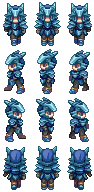
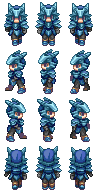
keep image ratio for mapObjects. Animate movement for characters. Order MapObject displays.

diff --git a/Assets/Scripts/Map/MapObject.cs b/Assets/Scripts/Map/MapObject.cs
@@ -10,21 +10,26 @@ public class MapObject : MonoBehaviour {
     public enum Orientation { Down, Left, Right, Up };
     public Orientation orientation = Orientation.Down;
 
-    public const int CHAR_RESOLUTION_X = 32;
-    public const int CHAR_RESOLUTION_Y = 48;
+    public int CHAR_RESOLUTION_X = 32;
+    public int CHAR_RESOLUTION_Y = 48;
 
     public Texture2D sprite;
     public Texture2D Sprite { 
         get {
+            int step = 1;
+            if (lerp > 0.2f && lerp < 0.8f)
+                step = ((orientation == Orientation.Left || orientation == Orientation.Right ? mapCoords.x : mapCoords.y) % 2 == 0) ? 0 : 2;
+            
+
             switch (orientation) {
                 case Orientation.Left:
-                    return InterfaceUtility.SeparateTexture(sprite, 1, 1, CHAR_RESOLUTION_X, CHAR_RESOLUTION_Y);
+                    return InterfaceUtility.SeparateTexture(sprite, step, 1, CHAR_RESOLUTION_X, CHAR_RESOLUTION_Y);
                 case Orientation.Right:
-                    return InterfaceUtility.SeparateTexture(sprite, 1, 2, CHAR_RESOLUTION_X, CHAR_RESOLUTION_Y);
+                    return InterfaceUtility.SeparateTexture(sprite, step, 2, CHAR_RESOLUTION_X, CHAR_RESOLUTION_Y);
                 case Orientation.Up:
-                    return InterfaceUtility.SeparateTexture(sprite, 1, 3, CHAR_RESOLUTION_X, CHAR_RESOLUTION_Y);
+                    return InterfaceUtility.SeparateTexture(sprite, step, 3, CHAR_RESOLUTION_X, CHAR_RESOLUTION_Y);
                 default:
-                    return InterfaceUtility.SeparateTexture(sprite, 1, 0, CHAR_RESOLUTION_X, CHAR_RESOLUTION_Y);
+                    return InterfaceUtility.SeparateTexture(sprite, step, 0, CHAR_RESOLUTION_X, CHAR_RESOLUTION_Y);
             }
         }
     }
@@ -44,7 +49,7 @@ public class MapObject : MonoBehaviour {
                 case MovementSpeed.None: break;
                 case MovementSpeed.Slow: lerp += Time.deltaTime * 2f; break;
                 case MovementSpeed.Normal: lerp += Time.deltaTime * 4f; break;
-                case MovementSpeed.Fast: lerp += Time.deltaTime * 8f; break;
+                case MovementSpeed.Fast: lerp += Time.deltaTime * 6f; break;
                 case MovementSpeed.Instant: lerp = 1f; break;
             }
             
@@ -64,7 +69,7 @@ public class MapObject : MonoBehaviour {
 
     public void DisplayOnMap() {
         if (sprite != null)
-            GUI.DrawTexture(new Rect(Map.Resolution.x * (mapCoords.x + currentMovement.x * lerp), Map.Resolution.y * (mapCoords.y + currentMovement.y * lerp), Map.Resolution.x, Map.Resolution.y), Sprite);
+            GUI.DrawTexture(new Rect(Map.Resolution.x * (mapCoords.x + currentMovement.x * lerp), Map.Resolution.y * (mapCoords.y + currentMovement.y * lerp), Map.Resolution.x, Sprite.height * (Map.Resolution.x / Sprite.width)), Sprite);
     }
 
     public void Move(Orientation _o) {

diff --git a/Assets/Scripts/Map/World.cs b/Assets/Scripts/Map/World.cs
@@ -34,6 +34,8 @@ public class World : MonoBehaviour {
 
         currentMap.Display();
 
+        mapObjects.Sort(delegate(MapObject a, MapObject b) { if (a.mapCoords.y > b.mapCoords.y) return 1; else if (a.mapCoords.y < b.mapCoords.y) return -1; else return 0 ; });
+
         foreach (MapObject mo in mapObjects)
             mo.DisplayOnMap();
     }
